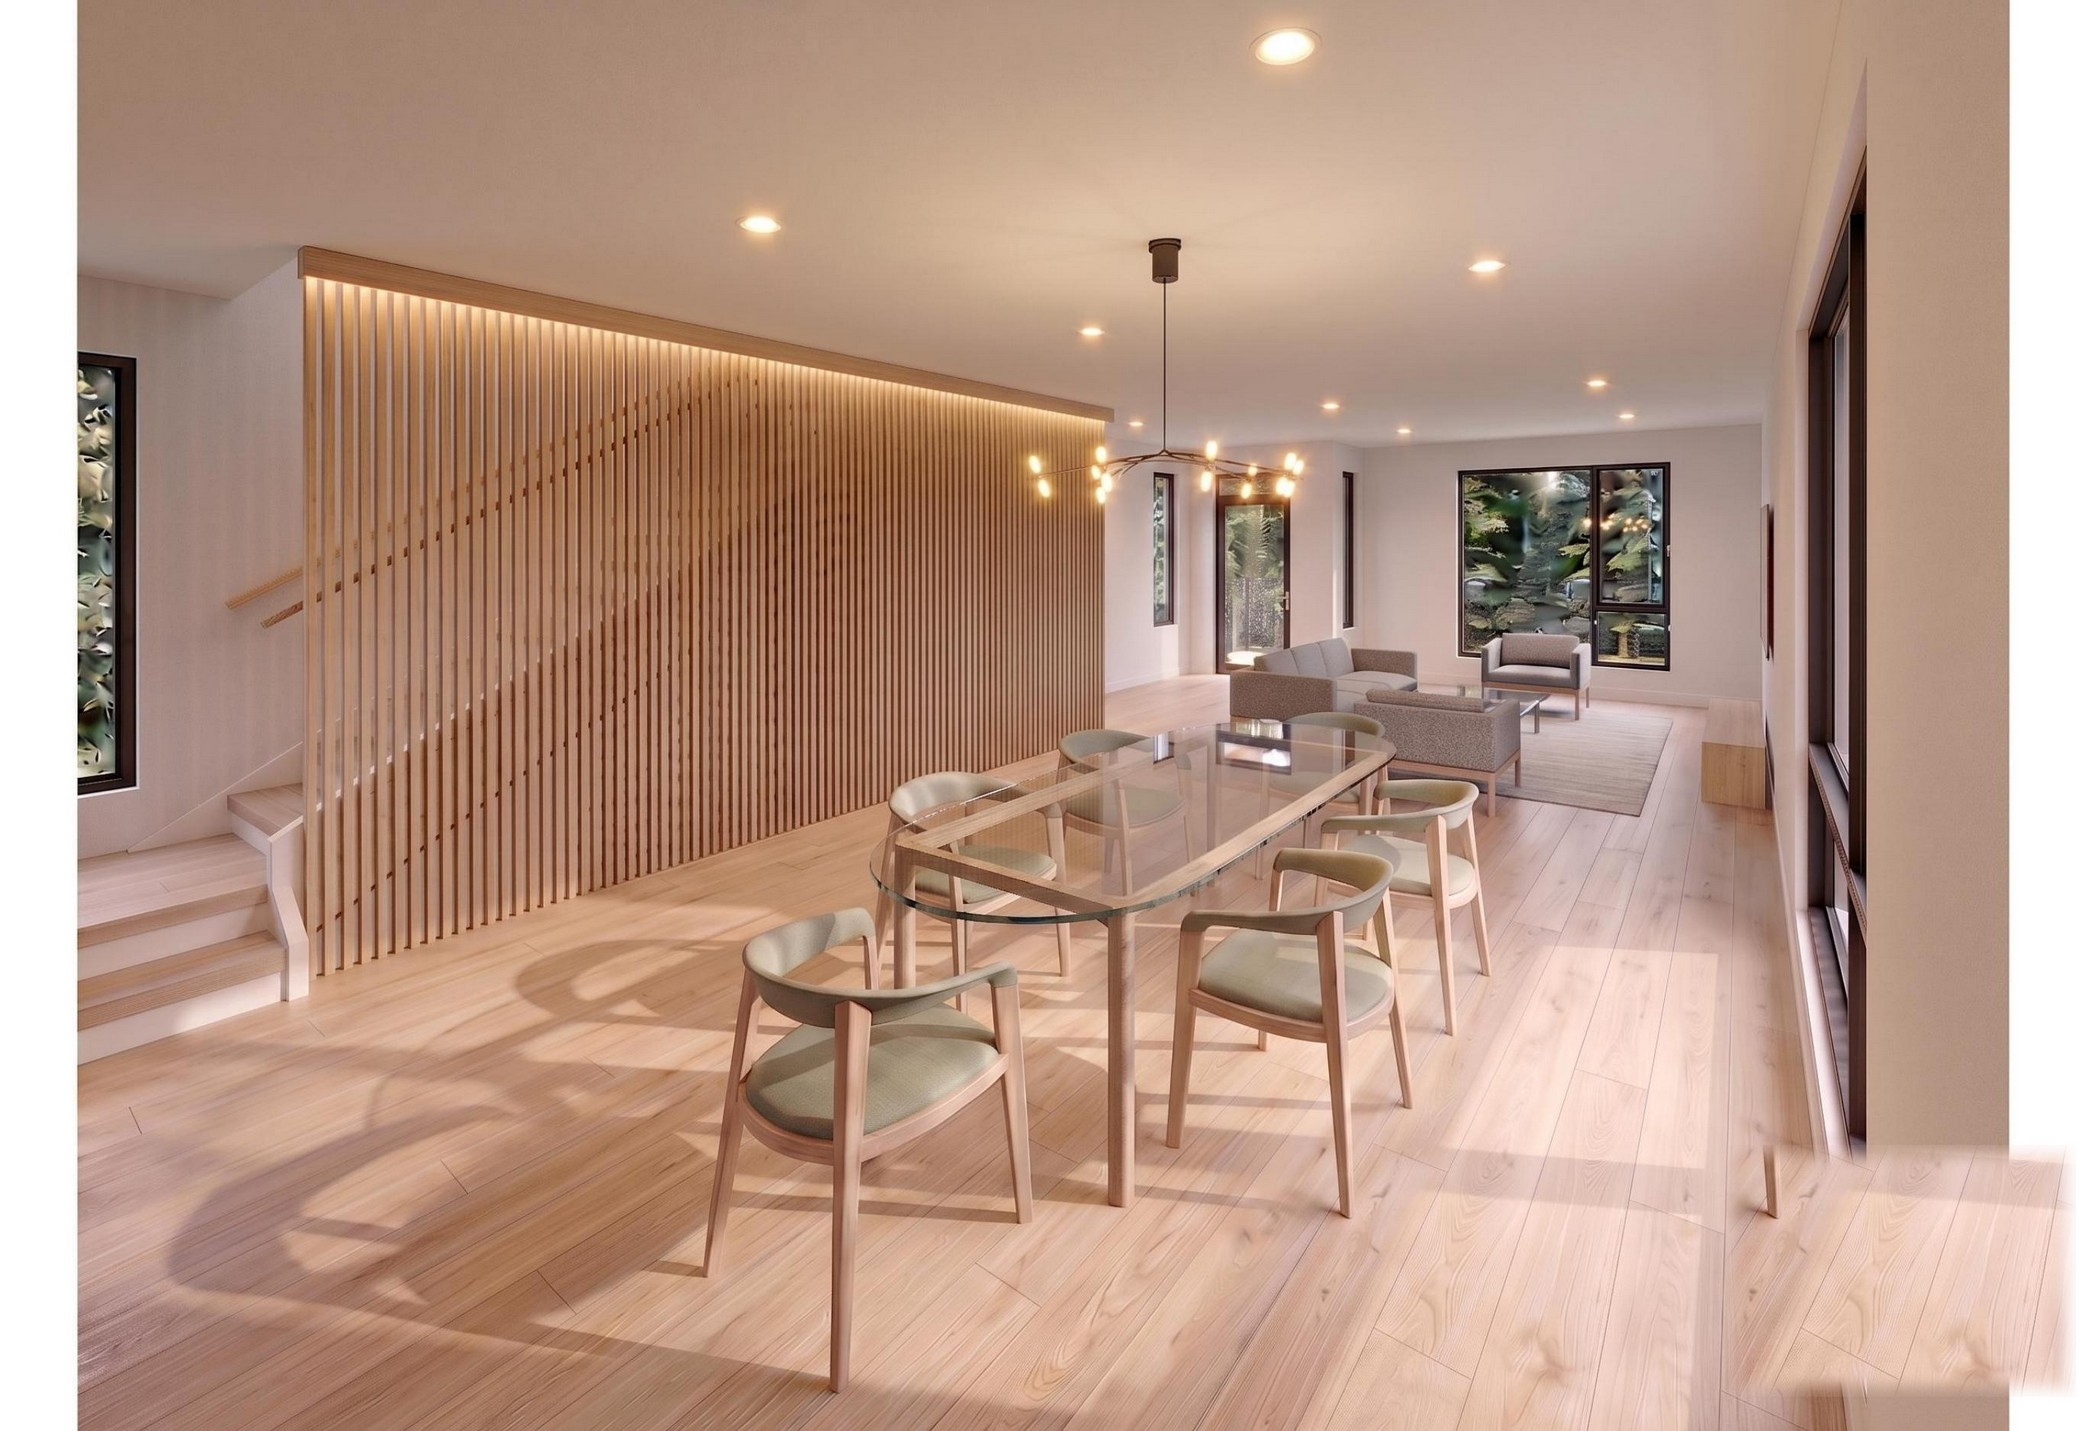
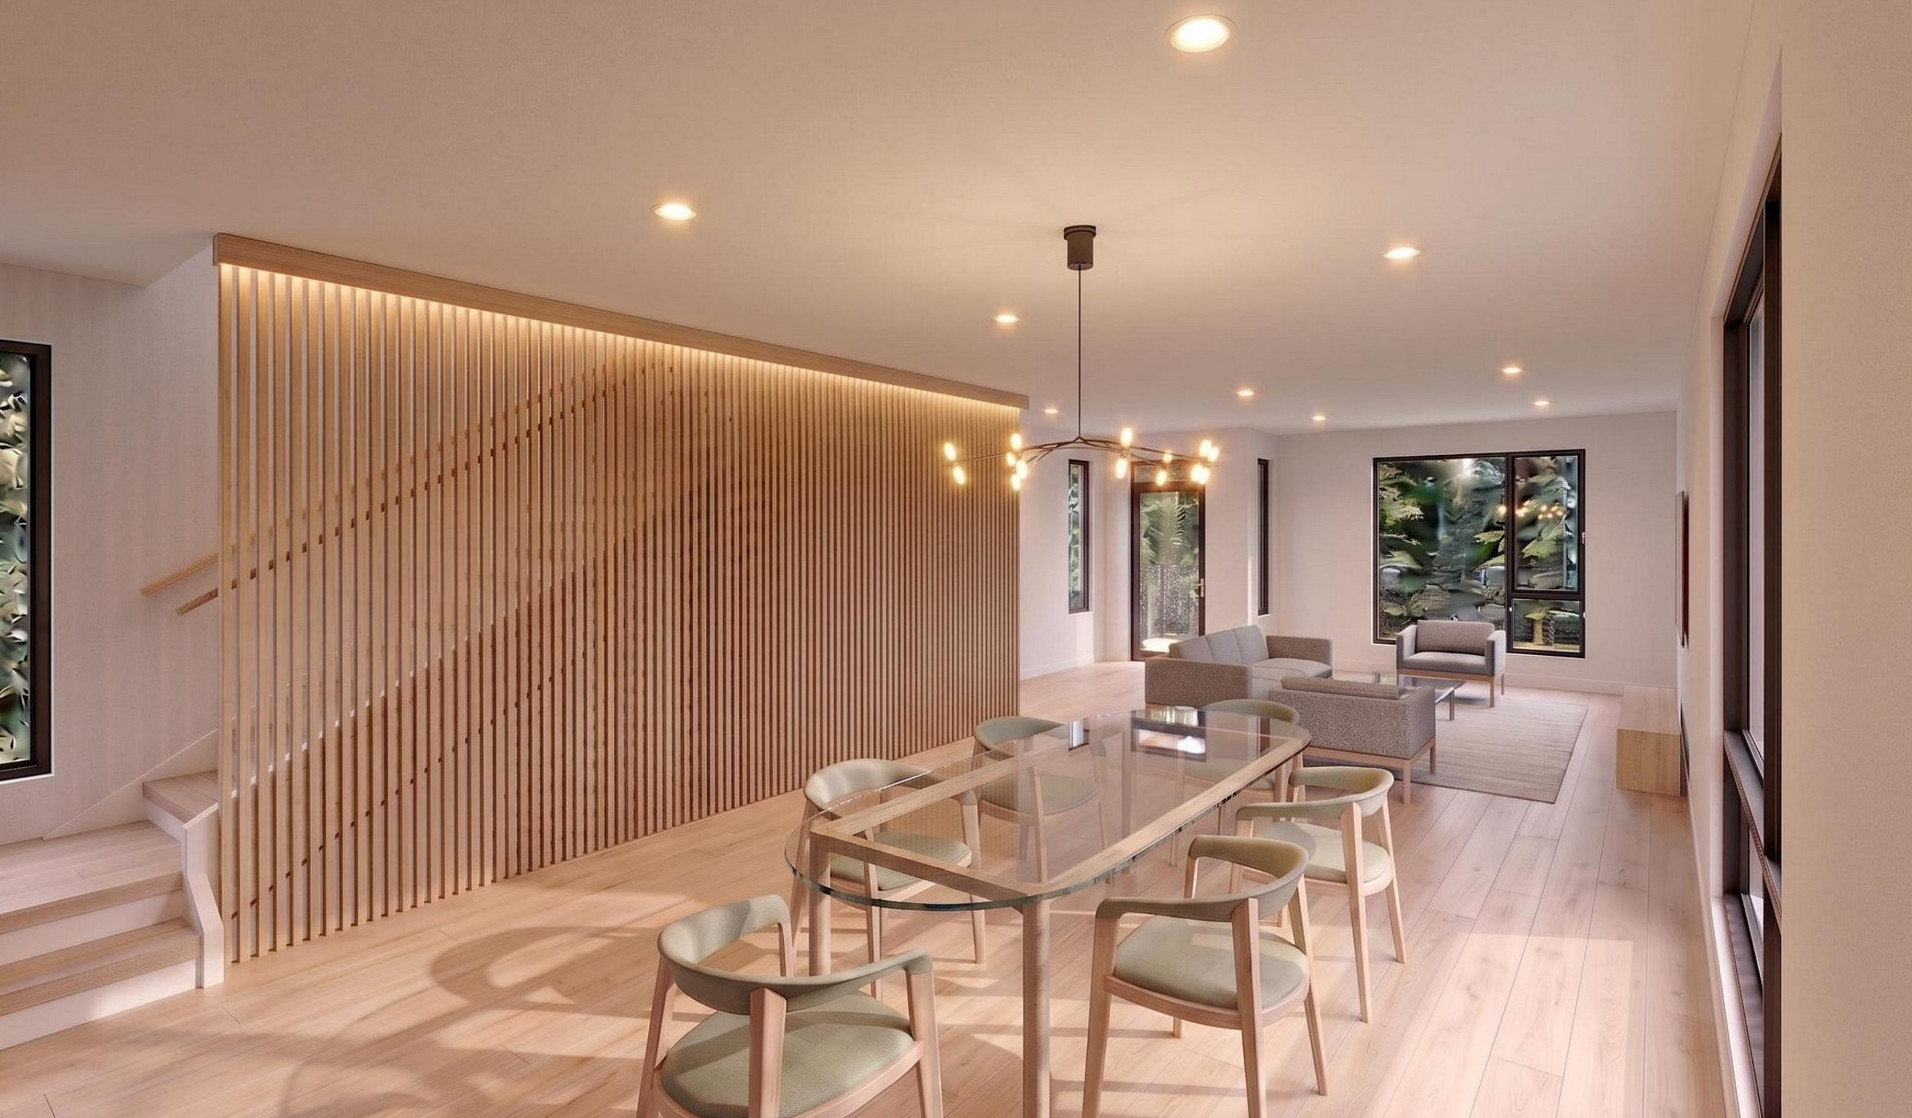
fix: replace the kitchen and dining renders
Both files came back from the brochure without the stray furniture strip
along the bottom edge. New intrinsic sizes: 1602x942 and 1912x1118,
updated in the contract so the frame stays reserved before the file
lands.

diff --git a/src/lib/projects.ts b/src/lib/projects.ts
@@ -254,15 +254,15 @@ const PROJECTS = [
       {
         src: "/projects/720-sherrybrook/kitchen-island.jpg",
         alt: "Kitchen with a white quartz island and light oak cabinetry.",
-        width: 1759,
-        height: 1200,
+        width: 1602,
+        height: 942,
         caption: "Kitchen",
       },
       {
         src: "/projects/720-sherrybrook/dining-living.jpg",
         alt: "Open dining and living area on the ground floor.",
-        width: 2099,
-        height: 1431,
+        width: 1912,
+        height: 1118,
         caption: "Dining and living",
       },
       {
@@ -323,8 +323,8 @@ const PROJECTS = [
         media: {
           src: "/projects/720-sherrybrook/kitchen-island.jpg",
           alt: "Kitchen with a white quartz island and light oak cabinetry.",
-          width: 1759,
-          height: 1200,
+          width: 1602,
+          height: 942,
           caption: "Interior render · kitchen",
         },
       },
